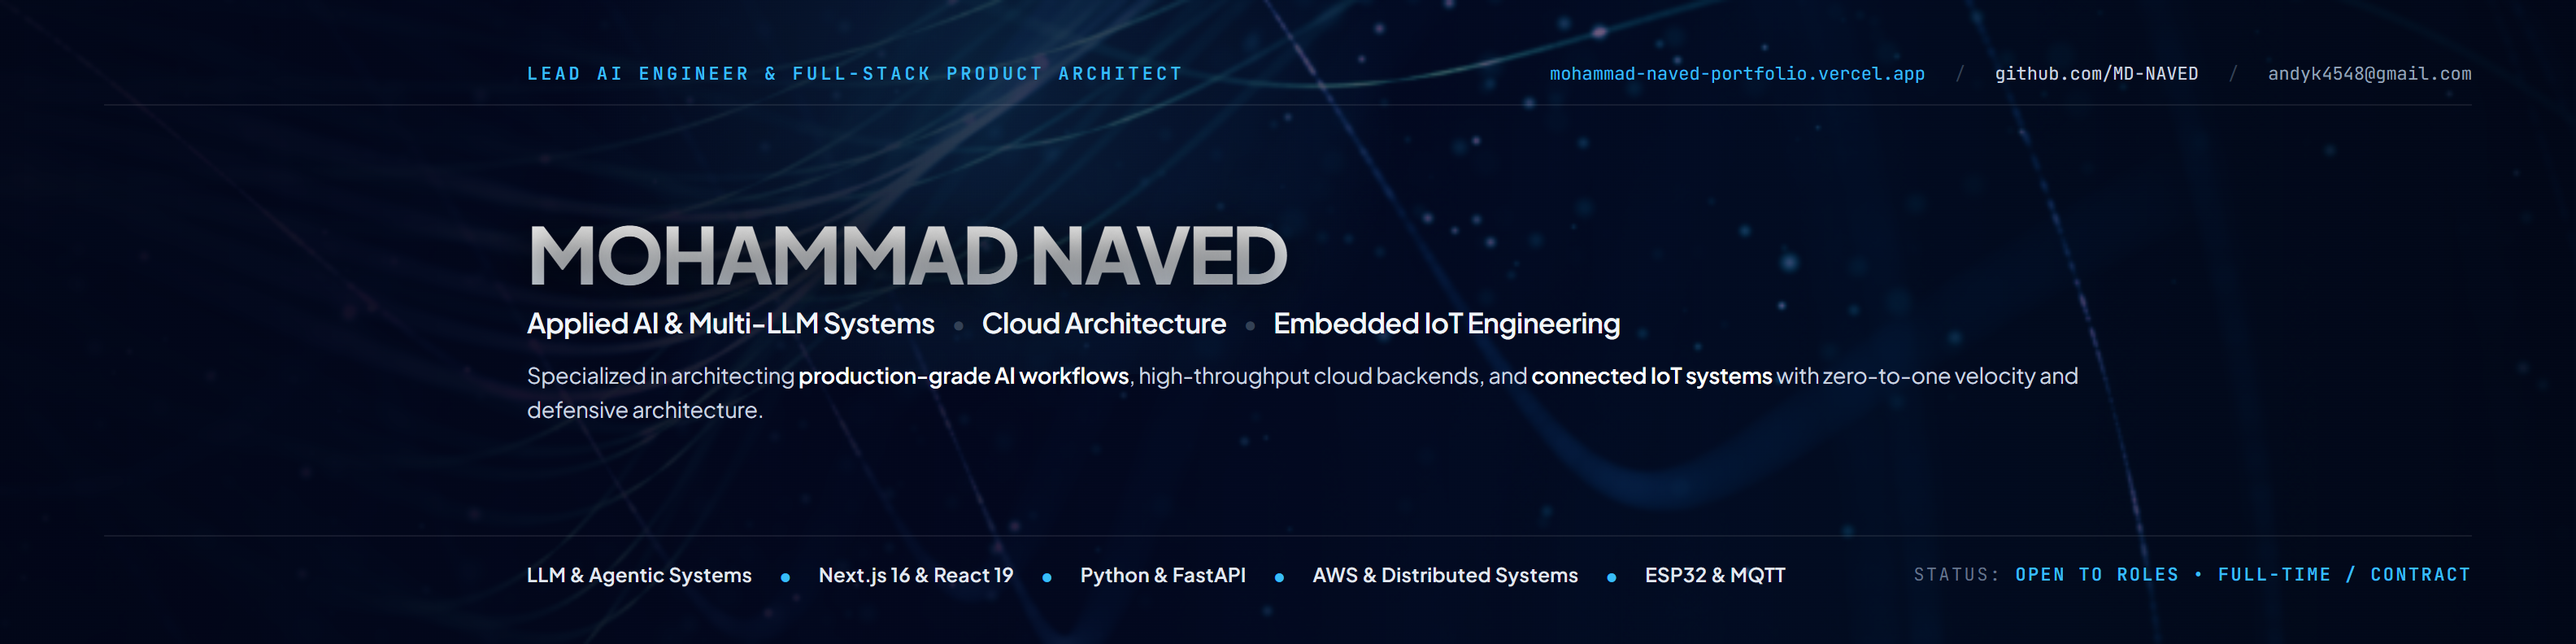
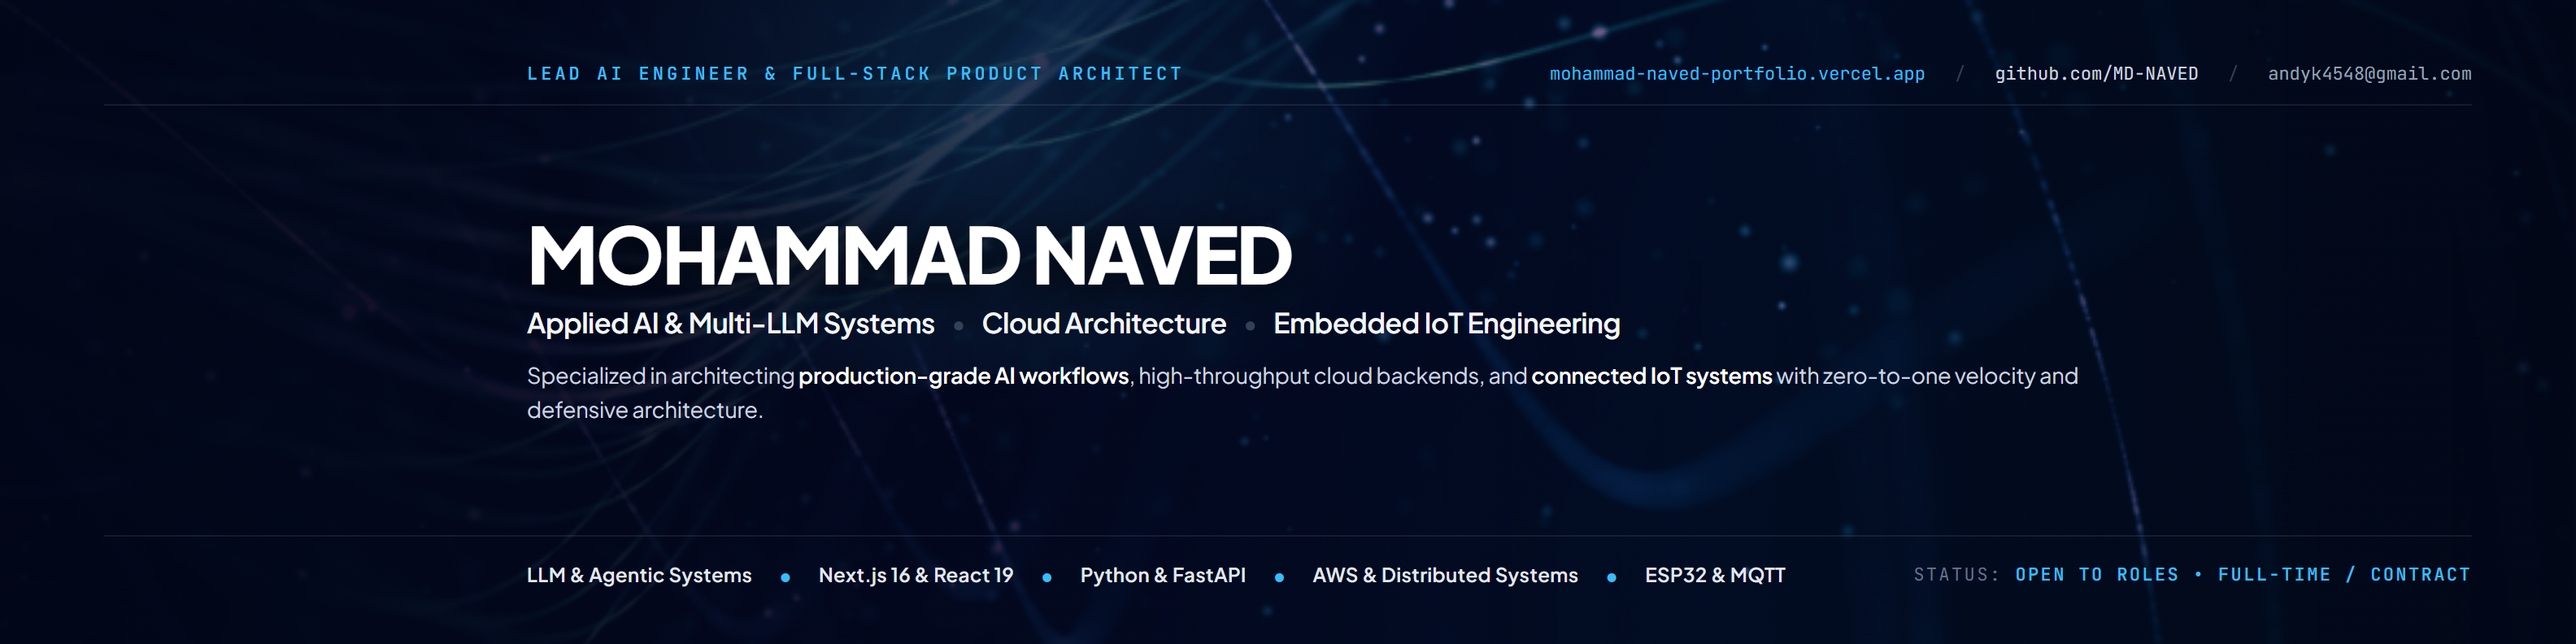
fix: resolve html2canvas white background box bug on hero-name

Changed region(s): [[0.1875, 0.3333, 0.5, 0.4545]]

diff --git a/public/linkedin-banner.html b/public/linkedin-banner.html
@@ -203,13 +203,12 @@
     .hero-name {
       font-size: 48px;
       font-weight: 800;
-      letter-spacing: -1.6px;
+      letter-spacing: -1.4px;
       line-height: 1.05;
       margin-bottom: 6px;
-      background: linear-gradient(180deg, #ffffff 30%, #cbd5e1 100%);
-      -webkit-background-clip: text;
-      -webkit-text-fill-color: transparent;
-      text-shadow: 0 4px 28px rgba(0, 0, 0, 0.85);
+      color: #ffffff;
+      text-shadow: 0 4px 28px rgba(0, 0, 0, 0.9);
+      display: inline-block;
     }
 
     .hero-subtitle {
@@ -449,32 +448,38 @@
     });
 
     downloadBtn.addEventListener('click', async () => {
-      const prevAvatarDisplay = avatarMock.style.display;
-      avatarMock.style.display = 'none';
-
-      downloadBtn.innerText = 'Generating 1584x396 PNG...';
-      downloadBtn.disabled = true;
-
+      // First try downloading the pre-rendered pixel-perfect PNG
       try {
-        const canvas = await html2canvas(bannerSource, {
-          width: 1584,
-          height: 396,
-          scale: 2,
-          useCORS: true,
-          backgroundColor: '#020617',
-          logging: false
-        });
-
         const link = document.createElement('a');
-        link.download = 'Mohammad_Naved_LinkedIn_Banner_1584x396.png';
-        link.href = canvas.toDataURL('image/png');
+        link.download = 'Mohammad_Naved_LinkedIn_Banner.png';
+        link.href = 'Mohammad_Naved_LinkedIn_Banner.png';
+        document.body.appendChild(link);
         link.click();
-      } catch (err) {
-        alert('Export error: ' + err.message);
-      } finally {
-        avatarMock.style.display = prevAvatarDisplay;
-        downloadBtn.innerText = 'Download High-Res PNG';
-        downloadBtn.disabled = false;
+        document.body.removeChild(link);
+      } catch (e) {
+        // Fallback to html2canvas if opened from file:// or without server
+        const prevAvatarDisplay = avatarMock.style.display;
+        avatarMock.style.display = 'none';
+
+        try {
+          const canvas = await html2canvas(bannerSource, {
+            width: 1584,
+            height: 396,
+            scale: 2,
+            useCORS: true,
+            backgroundColor: '#020617',
+            logging: false
+          });
+
+          const link = document.createElement('a');
+          link.download = 'Mohammad_Naved_LinkedIn_Banner.png';
+          link.href = canvas.toDataURL('image/png');
+          link.click();
+        } catch (err) {
+          alert('Export error: ' + err.message);
+        } finally {
+          avatarMock.style.display = prevAvatarDisplay;
+        }
       }
     });
   </script>
